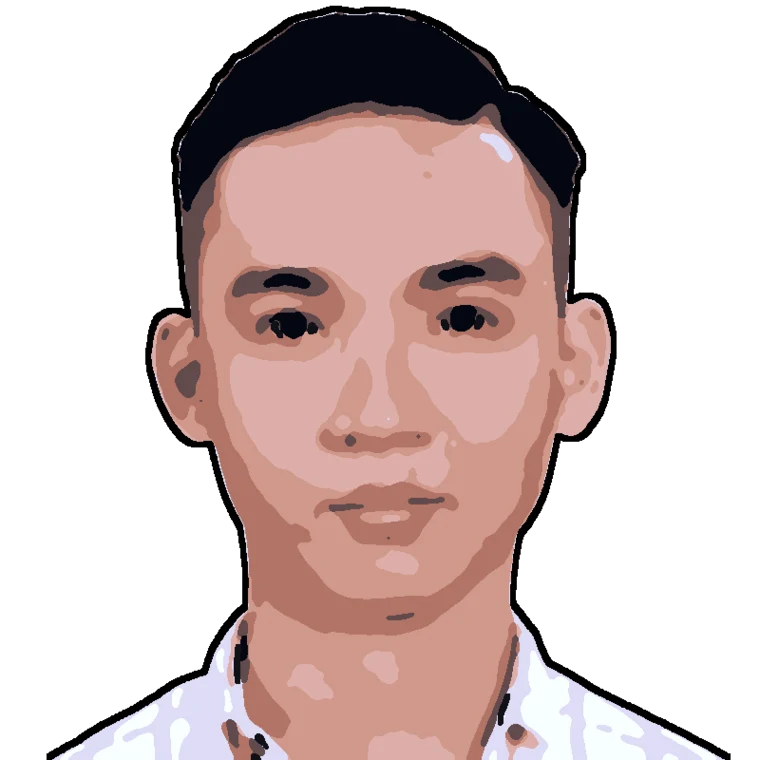
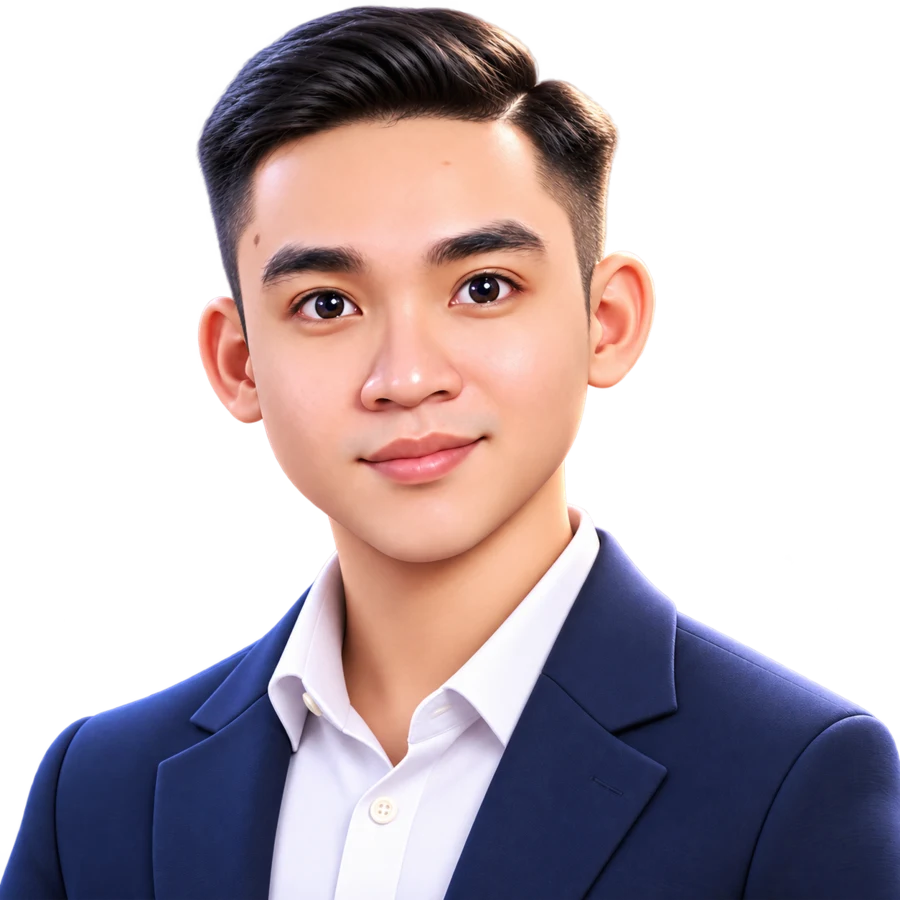
Use 3D cartoon portrait in hero

diff --git a/index.html b/index.html
@@ -87,7 +87,7 @@ img,svg{display:block}
 .btn.solid{background:var(--ink);color:#fff}.btn.solid i{border-color:#fff}
 .btn.solid:hover{background:#fff;color:var(--ink)}.btn.solid:hover i{border-color:var(--ink)}
 .hero-art{position:absolute;right:2vw;bottom:0;width:min(46vw,700px);aspect-ratio:1;z-index:1}
-.hero-face{position:absolute;inset:0;width:100%;height:100%;object-fit:contain;object-position:bottom;animation:float 6s ease-in-out infinite}
+.hero-face{position:absolute;inset:0;width:100%;height:100%;object-fit:contain;object-position:bottom;filter:drop-shadow(0 20px 40px rgba(0,0,20,.35))}
 @keyframes float{50%{transform:translateY(-8px)}}
 .hero-rings{position:absolute;left:-15%;top:-20%;width:130%;height:auto;overflow:visible}
 .ping{transform-box:fill-box;transform-origin:center;animation:ping 2.4s ease-out infinite}
@@ -309,7 +309,7 @@ body.gold #snow{display:block}
     </div>
   </div>
 
-  <!-- Portrait (illustrated from LinkedIn photo) with lidar rings – nod to the PhD -->
+  <!-- 3D portrait (generated from LinkedIn photo) with lidar rings – nod to the PhD -->
   <div class="hero-art" aria-hidden="true">
     <svg class="hero-rings" viewBox="-400 -400 800 800">
       <g class="scan"><path d="M0 0 L380 -70 A386 386 0 0 1 380 70 Z" fill="#fff" opacity=".12"/></g>
@@ -317,7 +317,7 @@ body.gold #snow{display:block}
       <circle class="ping" r="380" fill="none" stroke="#fff" stroke-width="3"/>
       <circle class="ping" r="380" fill="none" stroke="#fff" stroke-width="3"/>
     </svg>
-    <img class="hero-face" src="assets/thai-face.webp" alt="" width="760" height="760" fetchpriority="high">
+    <img class="hero-face" src="assets/thai-face.webp" alt="" width="900" height="900" fetchpriority="high">
   </div>
 </section>
 
